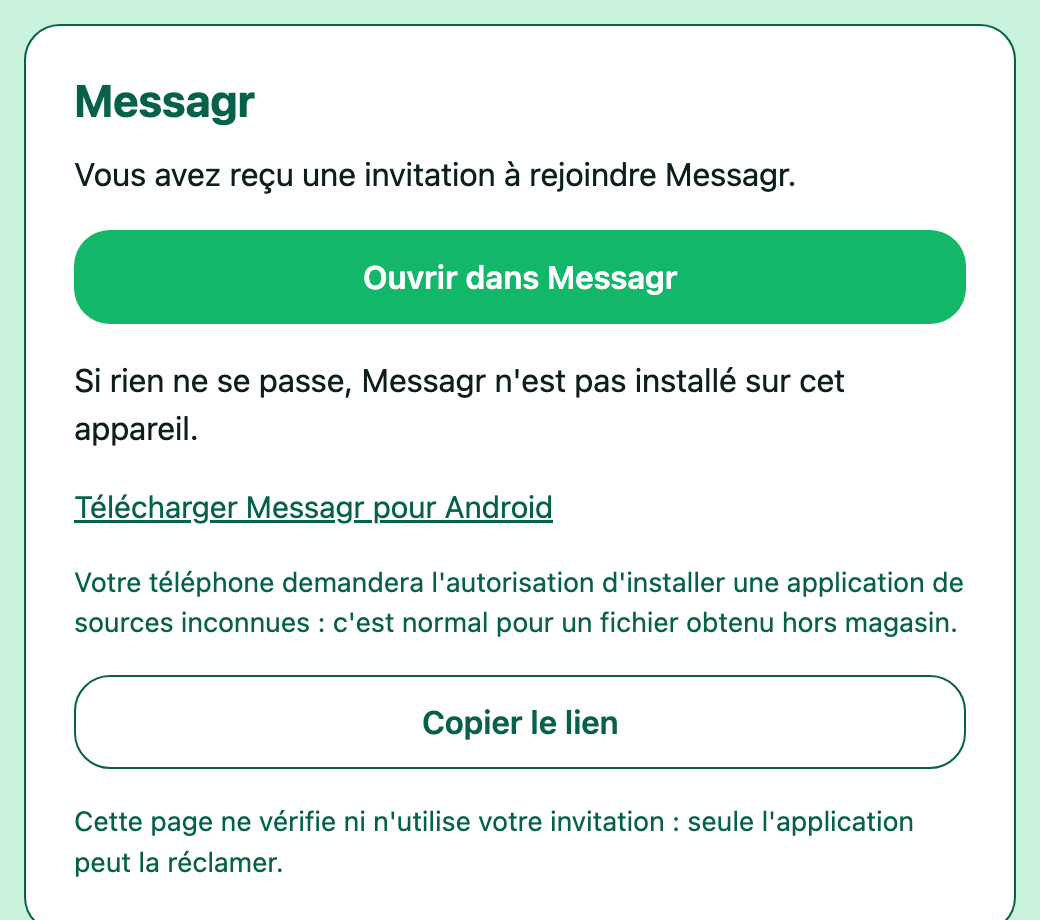
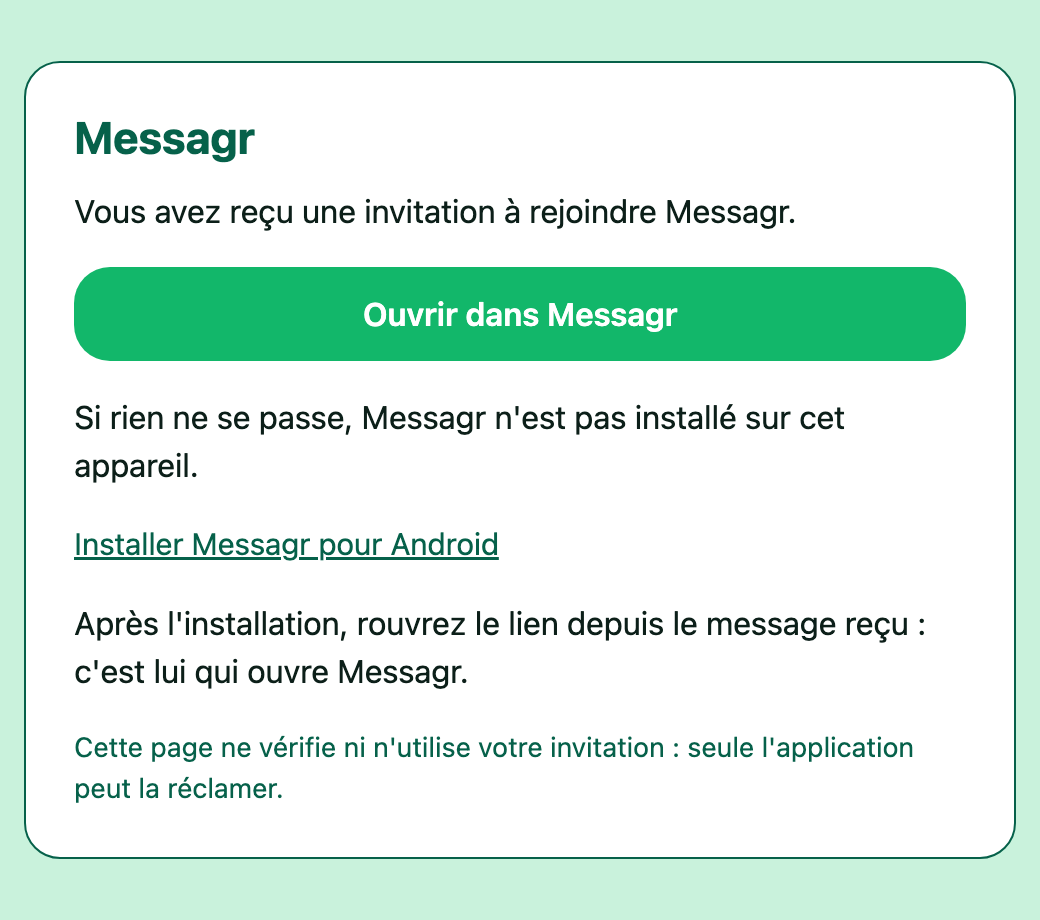
L'illustration de la page d'invitation montre l'installation par le magasin, sans fichier ni copie du lien
messagr-ecran-invitation.png, la première image du parcours de l'accueil,
montrait « Télécharger Messagr pour Android », l'avertissement des sources
inconnues et le bouton « Copier le lien » : rendre-ecrans.mjs remplissait
androidApk avec l'adresse de l'APK lue dans deploy.sh.

Depuis le 13 septembre 2026, le site ne propose plus de fichier, et un
téléphone Android lit « Installer Messagr pour Android ». Le rendu remplit
donc android, avec une adresse en .invalid qui ne mène nulle part : l'image
ne montre que le libellé du lien, et le lien d'inscription de la piste
interne n'a rien à faire dans ce dépôt ni sur une image publique. Rendue
après le retrait de « Copier le lien », l'image montre la phrase qui le
remplace.

Le rendu est reproductible sur cette machine : relancé sur master, il
redonne les six images à l'octet. Ici, les cinq autres ressortent
identiques, et seule celle de l'invitation change, toujours en 1040 × 920.
Le LISEZ-MOI des écrans et le commentaire de telechargement-retire.js, qui
disaient que rendre-ecrans.mjs lit l'adresse dans deploy.sh, suivent.

Claude-Session: https://claude.ai/code/session_01RMA6CbPVTtdRxXEHuxsWnf

Changed region(s): [[0.0, 0.0, 0.9846, 1.0], [0.8923, 0.7304, 0.9231, 0.7609]]

diff --git a/deploy/messagr-eu/tests/telechargement-retire.js b/deploy/messagr-eu/tests/telechargement-retire.js
@@ -23,10 +23,10 @@
 // # Ce qu'il cherche
 //
 // Le chemin du fichier, `/` suivi du nom que `deploy.sh` publie, n'importe où
-// dans la page. Le nom est LU dans `deploy.sh`, comme le font déjà
-// `destinations-page-invitation.js` et `landing/rendre-ecrans.mjs`. N'importe
-// où, et pas seulement dans un `href` : l'adresse absolue que la page
-// d'invitation porterait dans ses destinations mène au même 404.
+// dans la page. Le nom est LU dans `deploy.sh`, comme le fait déjà
+// `destinations-page-invitation.js`. N'importe où, et pas seulement dans un
+// `href` : l'adresse absolue que la page d'invitation porterait dans ses
+// destinations mène au même 404.
 //
 // # Pourquoi la moitié hors ligne existe
 //

diff --git a/deploy/messagr-eu/landing/ecrans/LISEZ-MOI.md b/deploy/messagr-eu/landing/ecrans/LISEZ-MOI.md
@@ -48,8 +48,11 @@ rien -- écrit, éprouvé, pas embarqué.
 d'invitation**, celle que ce site sert, rendue avec l'agent d'un téléphone.
 C'est la première image du parcours en trois étapes de la page d'accueil, et la
 première chose qu'une personne invitée voit, avant d'avoir rien installé.
-`rendre-ecrans.mjs` la produit comme les autres, en lisant l'adresse du
-téléchargement dans `deploy.sh` plutôt qu'en la recopiant.
+`rendre-ecrans.mjs` la produit comme les autres, dans l'état qu'un téléphone
+Android lit depuis le 13 septembre 2026 : « Installer Messagr pour Android »,
+sans téléchargement direct. Sa destination y est une adresse en `.invalid`, qui
+ne mène nulle part : l'image n'en montre que le libellé, et le lien
+d'inscription de la piste interne n'a pas à entrer dans ce dépôt.
 
 ## Refaire les images
 
